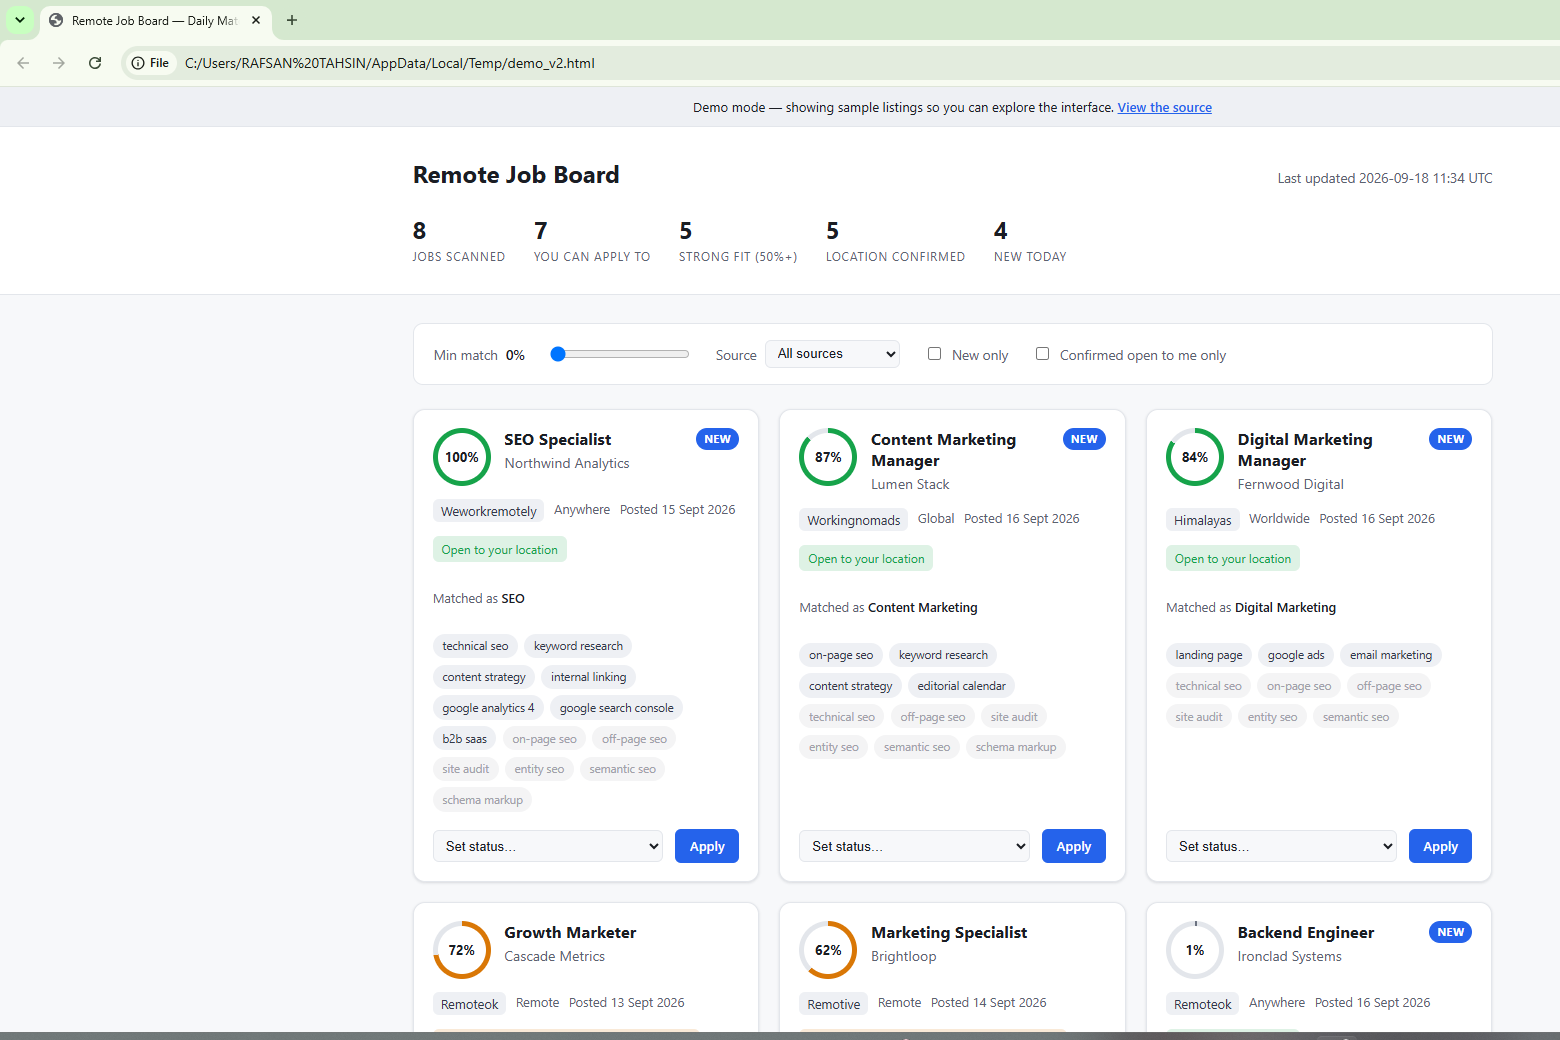
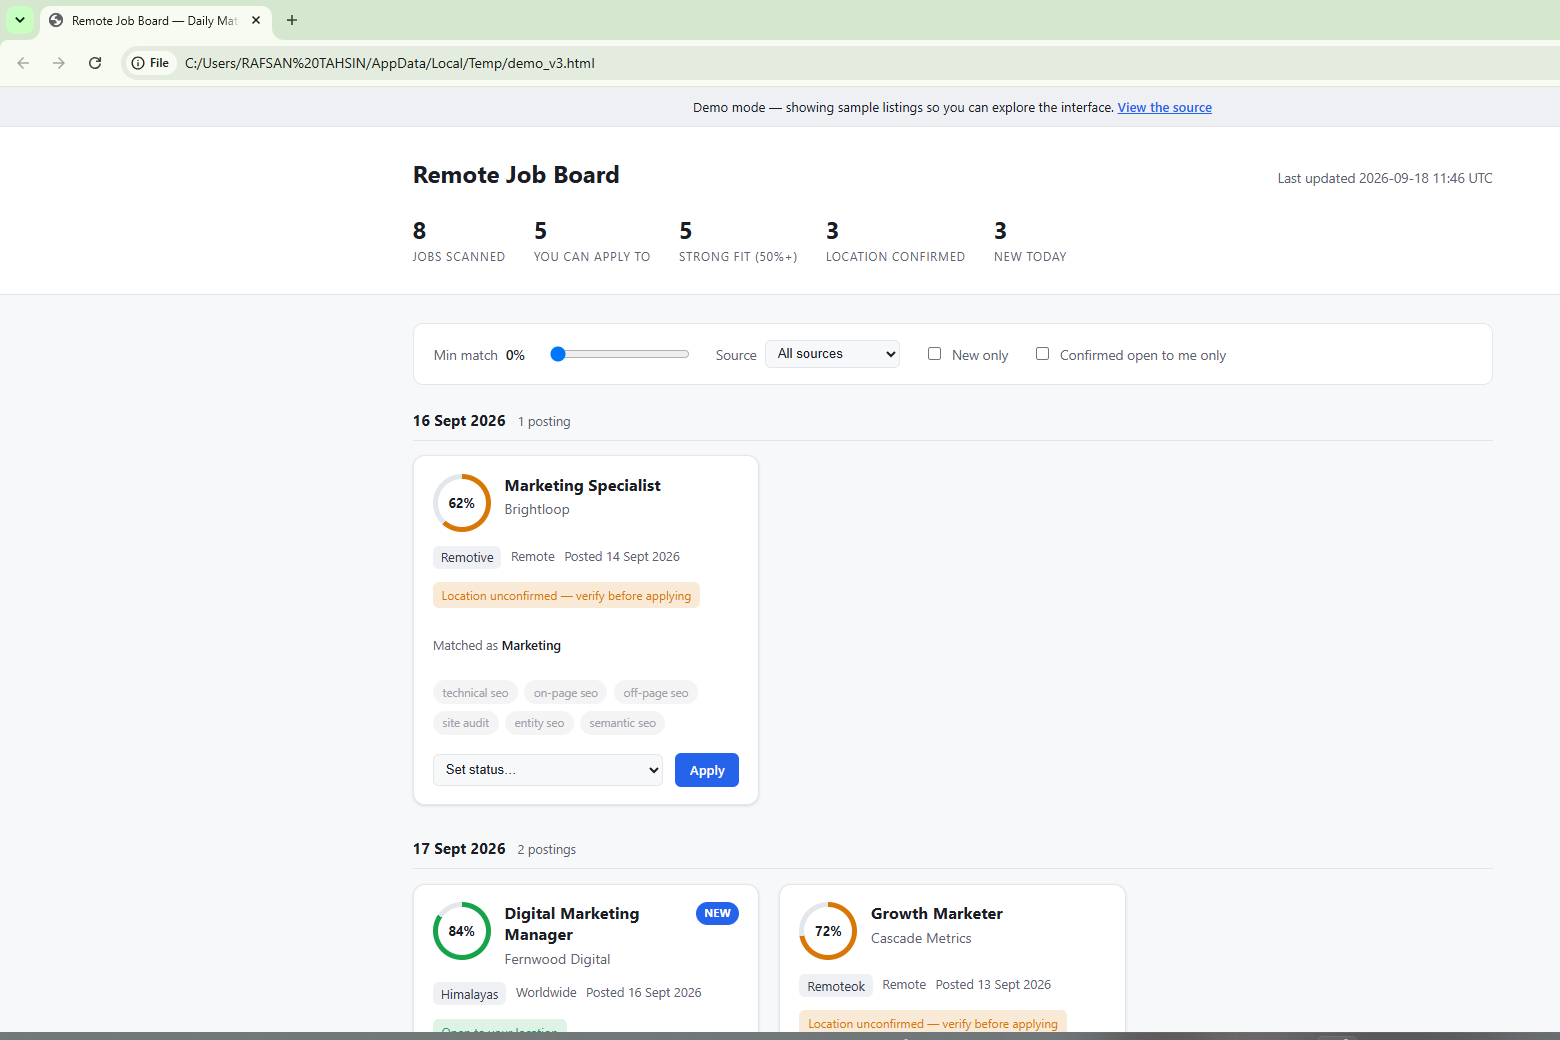
Group dashboard cards by the day they were found
Each group is headed with its date and a count, ordered oldest first so
the newest batch lands at the bottom of the page rather than displacing
listings already reviewed.

diff --git a/README.md b/README.md
@@ -58,8 +58,10 @@ concurrently in a thread pool; a failing or slow source is caught, logged,
 and contributes zero listings rather than aborting the run.
 
 Every surviving listing is shown, each with its own match percentage - the
-dashboard's slider does the filtering, rather than the pipeline deciding
-in advance what you're allowed to see.
+dashboard's slider does the filtering, rather than the pipeline deciding in
+advance what you're allowed to see. Cards are grouped by the day they
+turned up, each group headed with its date and count ("18 Sept 2026 &middot;
+10 postings"), oldest first so each morning's batch lands at the bottom.
 
 ## Can I actually apply? (eligibility)
 
